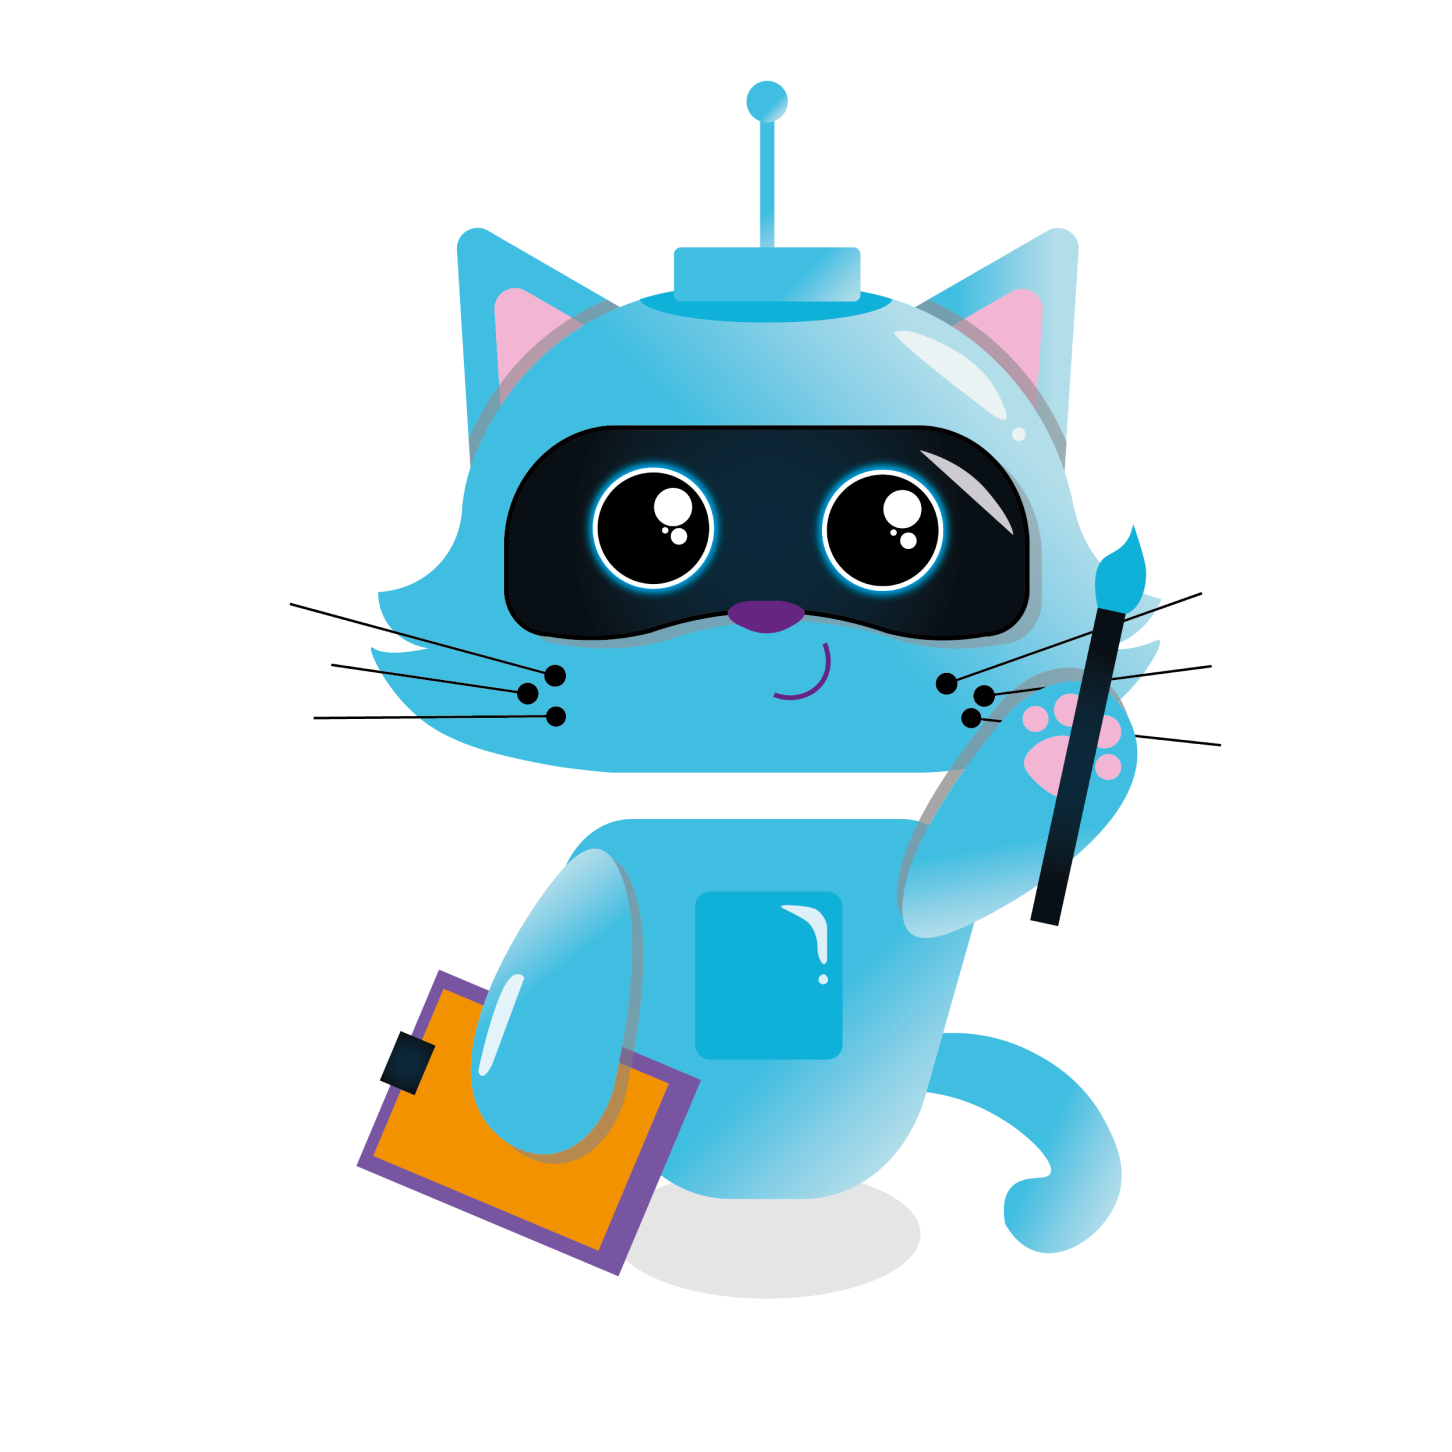
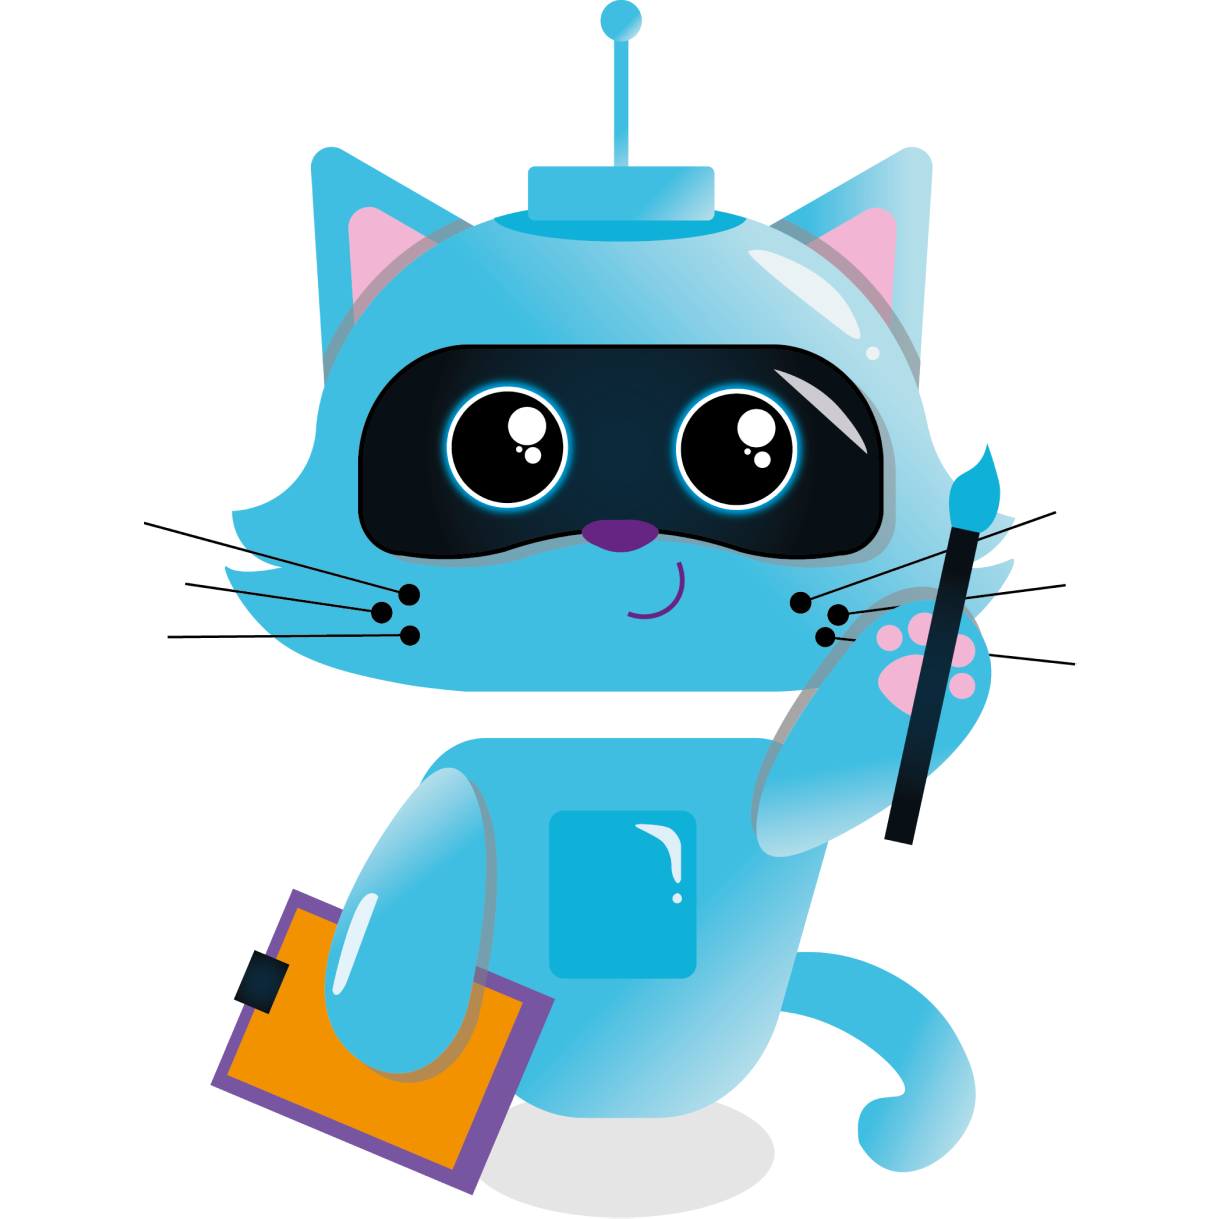
process

diff --git a/apps/tools/templates/tools/join_to_forming_group.html b/apps/tools/templates/tools/join_to_forming_group.html
@@ -14,38 +14,64 @@
 
 {% block content %}
     <style>
-
         .cat-1 {
             transform: rotate(-15deg);
             width: 19vw;
             min-width: 60px;
             position: absolute;
-            bottom: -50px;
-            right: -50px;
+            aspect-ratio: 1 / 1;
             filter: hue-rotate(25deg) contrast(.7) brightness(1.2);
         }
 
+        @media (max-width: 5000px) {
+            .cat-1 {
+                width: 9rem;
+                right: -10px;
+                bottom: -2rem;
+            }
+        }
+
+        @media (max-width: 1920px) {
+            .cat-1 {
+                width: 8rem;
+                right: -10px;
+                bottom: -2rem;
+            }
+        }
+
+        @media (max-width: 1200px) {
+            .cat-1 {
+                width: 7rem;
+                right: -10px;
+                bottom: -2rem;
+            }
+        }
+
+        @media (max-width: 900px) {
+            .cat-1 {
+                width: 6rem;
+                right: -10px;
+                bottom: -2rem;
+            }
+        }
+
+        @media (max-width: 700px) {
+            .cat-1 {
+                width: 5rem;
+                right: 30px;
+                bottom: 0;
+            }
+        }
+
         @media (max-width: 500px) {
-            .cat-1 {
-                height: 200%;
-                width: auto;
-                right: -10px;
-                bottom: -24px;
+            #group_join_content {
+                margin-top: 2rem;
             }
-        }
 
-        @media (max-height: 750px) and (min-width: 600px) {
             .cat-1 {
-                right: -30px;
-                bottom: -130px;
-            }
-        }
-
-        @media (min-width: 1920px) {
-            .cat-1 {
-                width: 10vw;
-                right: -10px;
-                bottom: -24px;
+                width: 4rem;
+                right: -20px;
+                bottom: 0;
             }
         }
 
@@ -121,7 +147,8 @@
             </p>
 
             <div class="ts-33 d-none">
-                <p id="help-text" class="text-center fs-5 fw-bold mb-2 opacity-this85">Выберите удобную для вас группу.</p>
+                <p id="help-text" class="text-center fs-5 fw-bold mb-2 opacity-this85">Выберите удобную для вас
+                    группу.</p>
                 <ul class="result_container frc flex-wrap gap-2">
 
                 </ul>
@@ -219,7 +246,7 @@
     {#    Модальное окно Bootstrap для подтверждения TZ #}
     <div class="modal fade" id="chooseTZModal" tabindex="-1" aria-labelledby="chooseTZModal"
          aria-hidden="true">
-        <div class="modal-dialog modal-dialog-centered mx-auto" style="max-width: 330px;">
+        <div class="modal-dialog modal-dialog-centered mx-auto rounded-3" style="max-width: 330px;">
             <div class="modal-content border-3 border-secondary">
                 <div class="modal-body fcc">
                     <p class="mb-2 fs-5 fw-bold text-center" style="color: #3d478e">Выберите вашу временную зону</p>

diff --git a/apps/Core/templates/Core/base.html b/apps/Core/templates/Core/base.html
@@ -7,7 +7,7 @@
     <meta charset="UTF-8">
     <meta name="viewport" content="width=device-width,initial-scale=1.0, maximum-scale=1.0, user-scalable=0">
 
-    <link rel="icon" type="image/png" href="{% static 'Core/img/logo.png' %}">
+    <link rel="icon" type="image/png" href="{% static 'Core/img/cat-1-small.png' %}">
     <link href="{% static 'Core/css/bootstrap.min.css' %}" rel="stylesheet">
     <link href="{% static 'Core/css/style.css' %}" rel="stylesheet">
     <link href="{% static 'Core/css/buttons.css' %}" rel="stylesheet">
@@ -27,9 +27,9 @@
     {# Отключает формирование ссылки у номера телефона на iOS #}
     <meta name="format-detection" content="telephone=no">
     {# Автор страницы #}
-    <meta name="Author" content="Nikita Artasov">
+    <meta name="Author" content="it-compot">
     {# Авторские права #}
-    <meta name="Copyright" content="Nikita Artasov">
+    <meta name="Copyright" content="it-compot">
     {# Адрес автора #}
     <meta name="Address" content="Russia">
     {# локализация сайта, для русскоязычного сайта ru_RU #}
@@ -39,7 +39,7 @@
     {# заголовок страницы, который будет выводиться в записи социальной сети #}
     <meta property="og:title" content="it-compot">
     {# ссылка на изображение, которое будет публиковаться в записи #}
-    {#    <meta property="og:image" content="{{ request.scheme }}://{{ request.get_host }}{% static 'Core/img/logo.png' %}">#}
+    <meta property="og:image" content="{{ request.scheme }}://{{ request.get_host }}{% static 'Core/img/cat-1.png' %}">
     {# ссылка на текущую страницу #}
     <meta property="og:url" content="{{ request.path }}">
     {# название сайта #}
@@ -47,7 +47,7 @@
     {# Тип карты, по умолчанию используется summary #}
     <meta name="twitter:card" content="summary">
     {# Имя/логин автора #}
-    <meta name="twitter:site" content="Nikita Artasov">
+    <meta name="twitter:site" content="it-compot">
     {# Название страницы #}
     <meta name="twitter:title" content="it-compot">
     {# Описание страницы #}
